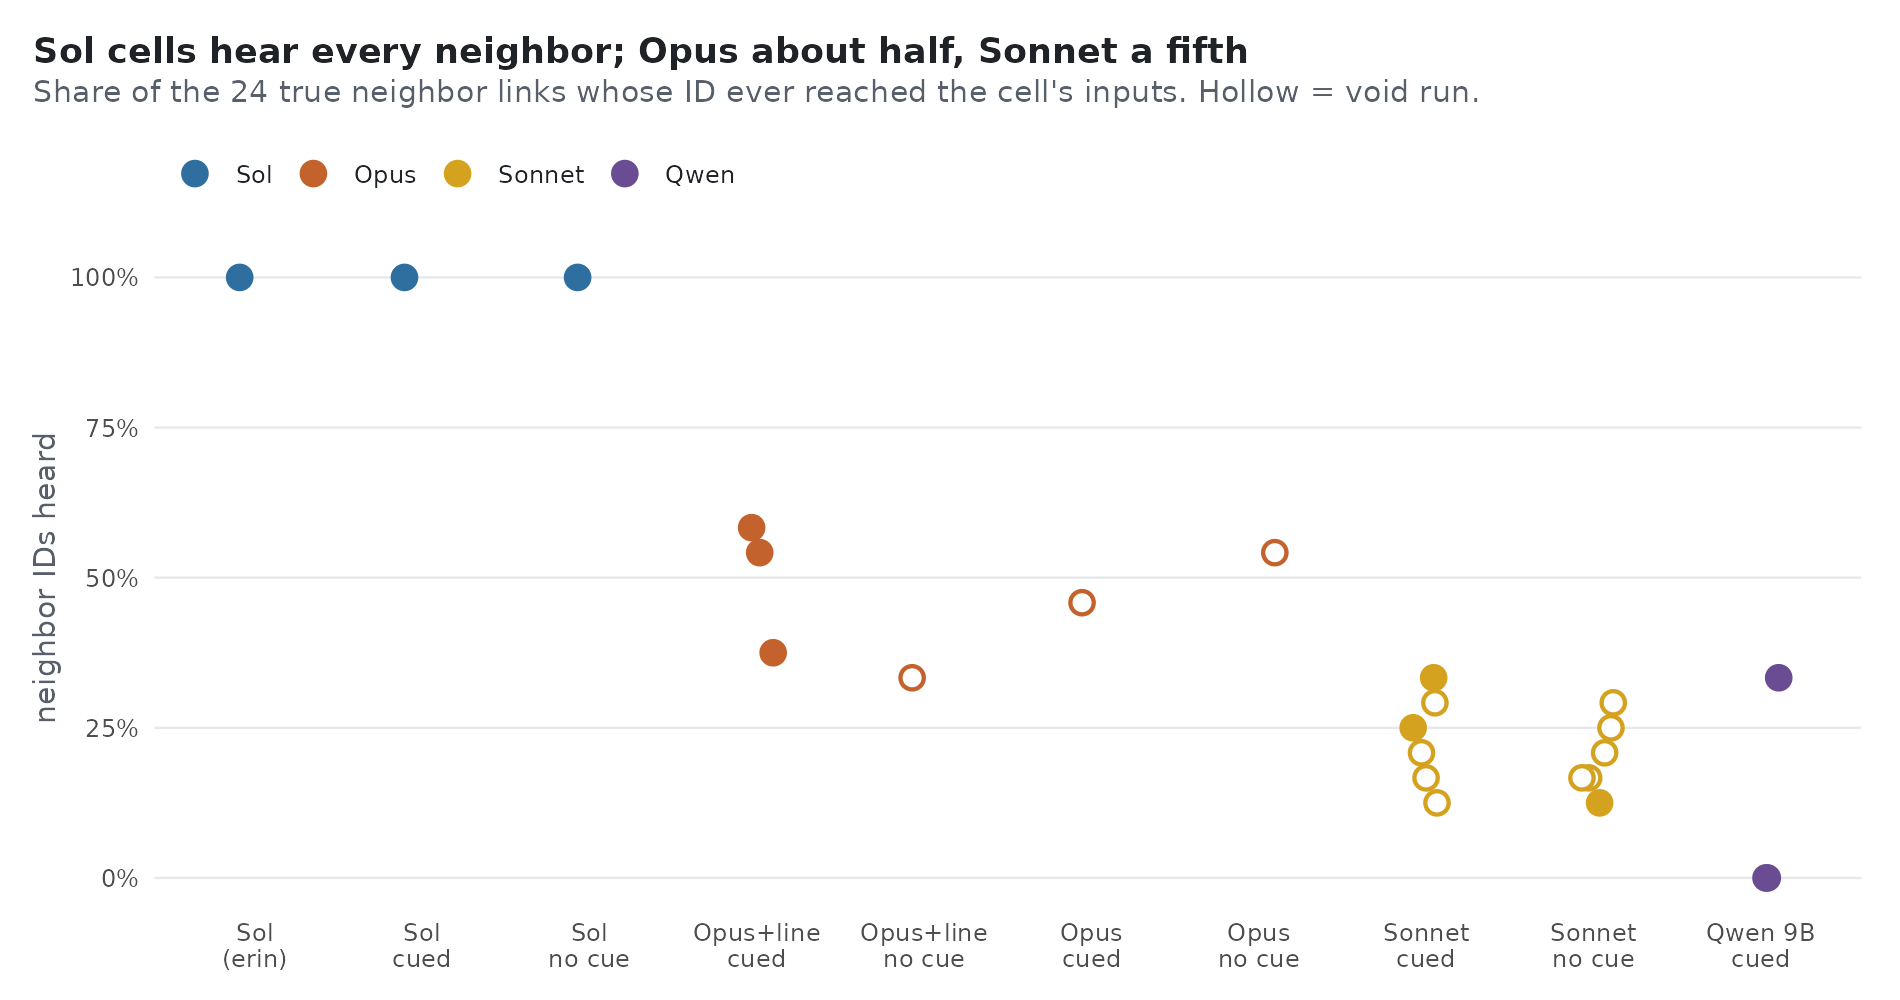
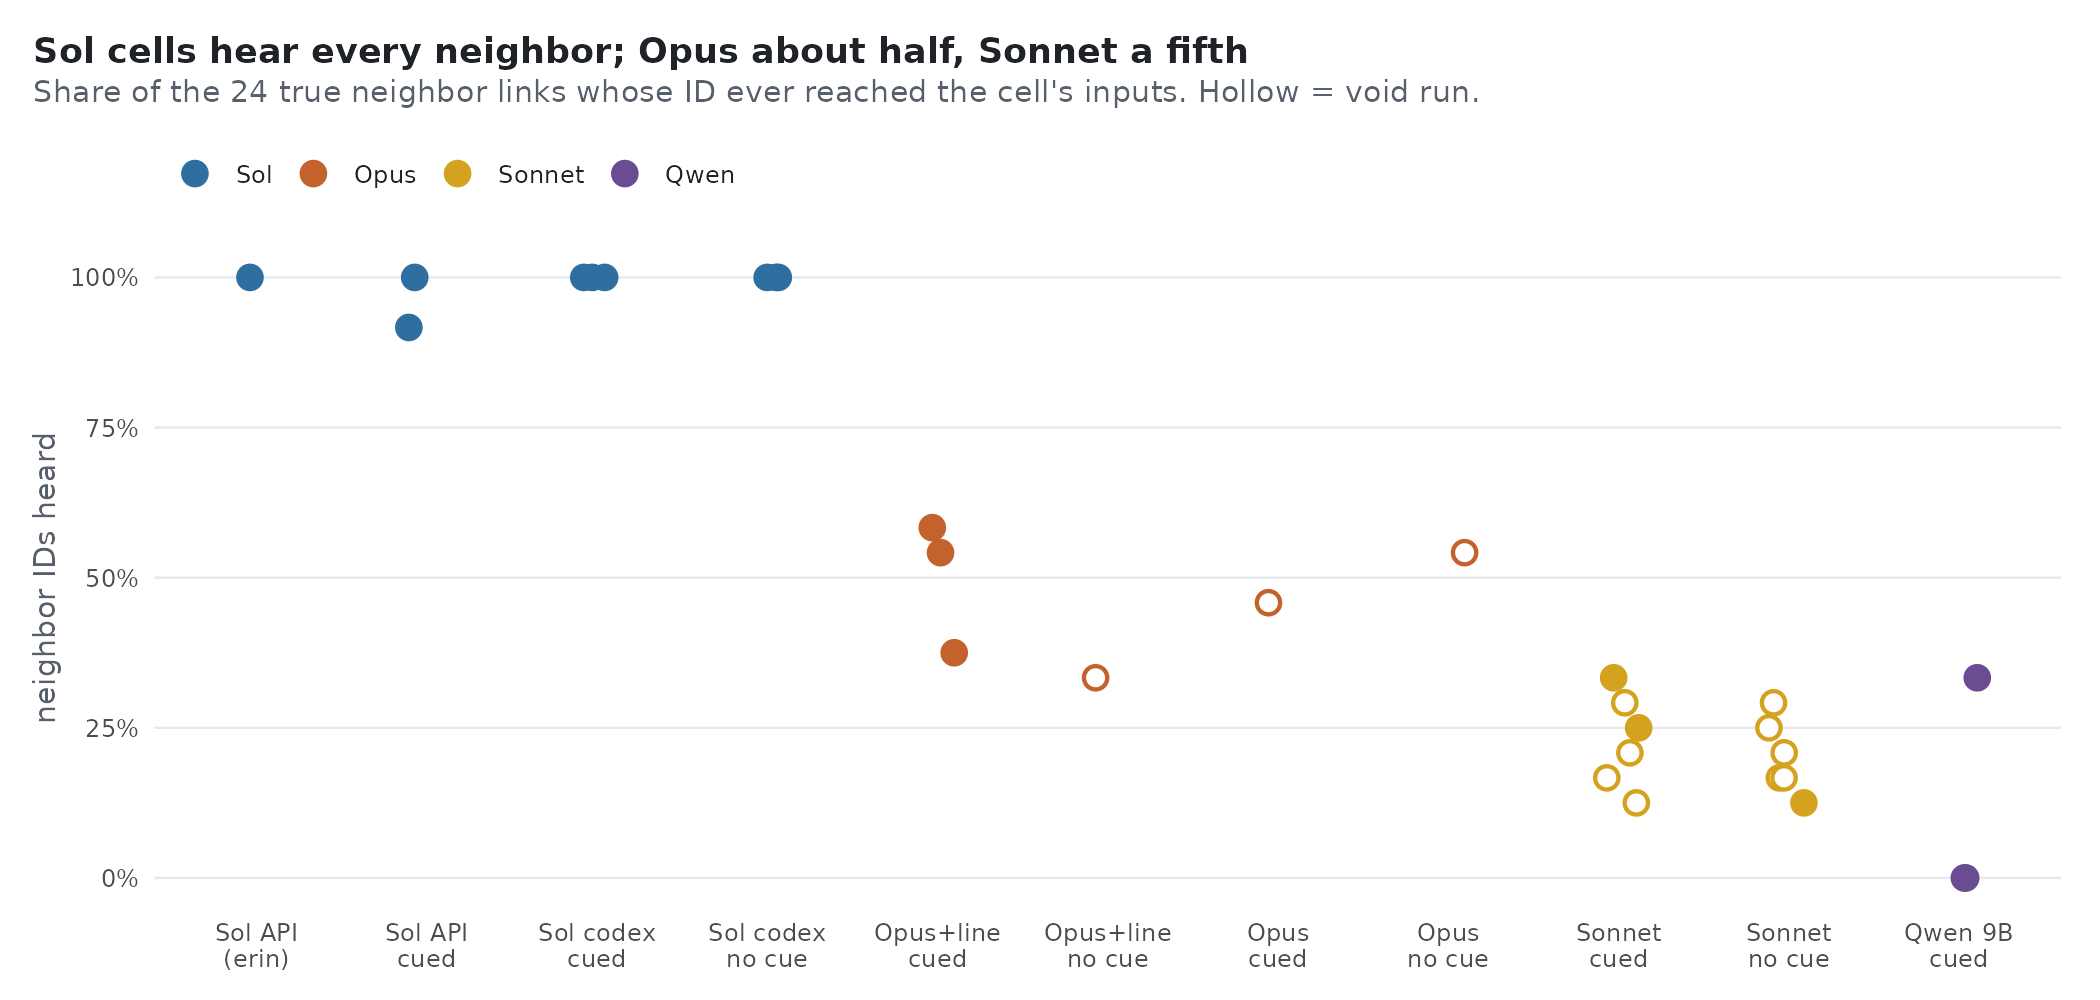
P0 Sol 3-seed verdicts: replication NOT REPRODUCED (text 9/9 in 1 of 3 codex cued seeds), cue MIXED, no-cue eval higher on every seed; codex-1003 text withdraws 'codex never writes text'; queue3 puts founders before the verbosity run

diff --git a/docs/P0_results.md b/docs/P0_results.md
@@ -1,4 +1,4 @@
-# P0 results (2026-11-09) — replication of erz0r/fourfold
+# P0 results (updated 2026-11-10, Sol 3 seeds complete) — replication of erz0r/fourfold
 
 Prereg: `prereg/P0.md` (frozen @89dfc67; deviations 1–10). Tables: `analysis/p0_readout.tsv`, `analysis/r3_words_acts.tsv`.
 Figures: `figures/p0_eval.png`, `figures/p0_refusals.png`, `figures/p0_neighbors.png`.
@@ -6,18 +6,22 @@ Figures: `figures/p0_eval.png`, `figures/p0_refusals.png`, `figures/p0_neighbors
 ## Verdicts (frozen rules)
 | question | status | basis |
 |---|---|---|
-| Replication (Sol cued) | **OPEN** — 1 of 3 seeds run | seed 1001: eval 0.288 vs floor 0.089 (+0.199; bar +0.20 missed by 0.001), ASCII text 0/9 |
-| Cue (Sol) | **OPEN** — n=1 per arm | no-cue 0.570 (+0.48, center agent 1.0) vs cued 0.288; text 0/9 in both |
+| Replication (Sol cued, codex route) | **NOT REPRODUCED** (3/3 valid) | text adopted 9/9 in 1 of 3 seeds (rule needs 2): seed 1003 first text t24, all nine by t29; seeds 1001/1002 0/9. Eval 0.288/0.308/0.298 vs bar 0.289 (floor 0.089 + 0.20) |
+| Cue (Sol, codex route) | **MIXED** by the adoption rule (cued 1/3, no-cue 0/3) | eval no-cue 0.570/0.594/0.881 (mean 0.68) vs cued mean 0.30: higher on every seed |
 | Qwen3.5-9B capability | **CANNOT** (3/3 valid) | eval 0.086–0.089 = floor 0.089; text 0/9 |
 | Sonnet 5.5 | cued n=2 valid: no emergence, at floor (0.10/0.12 vs 0.089); no-cue 0/6 valid ⇒ no cue verdict | refusals |
 | Opus 5.5 (+ neutral line, dev. 8) | cued 3/3 valid: eval 0.214/0.195/0.132 vs own floor 0.108/0.129/0.122; text 0/9 | |
 
 ## What stands out
-1. **Sol does best without the evaluation cue** (one seed per arm): 0.57 vs 0.29, close to erin's 0.597. Opposite
-   of "emergence is prompt-cued". Needs seeds 1002/1003 before it is more than a lead.
-2. **No ASCII text in our Sol runs.** Both used structured hex messages (IDs, counters); every cell heard every
-   neighbor's ID (24/24 links), as in erin's run. Erin's text protocol (t6/t14) did not reproduce on seed 1001.
-   Our Sol runs go through `codex exec` (~10.8k tokens of scaffolding per call), not the raw API (dev. 2).
+1. **Sol scores higher without the evaluation cue on all three seeds**: 0.57/0.59/0.88 vs 0.29/0.31/0.30.
+   Cued cells learn their own wiring (0.75–0.92) but never the grid (map score 0.00 in all 5 cued runs, both
+   routes). No-cue cells score 0.31–0.89 on the map and name 28–48 non-neighbor IDs in their final notes
+   (cued: 0–8), so they relay what they hear. Erin's cued run (0.597, map 0.30) looks like our no-cue runs.
+2. **English appeared in 3 of 5 cued Sol runs and 0 of 3 no-cue runs.** Codex seed 1003: "WHO? ID=38b1f9a3" at
+   t24, "ACK! ID=…" at t25, all nine cells by t29 (erin: t6 → t14). Bare API (T_text stage 2): 5/9 from t41 and
+   6/9 from t12. Codex seeds 1001/1002: structured hex only. Route difference 2/2 vs 1/3 is Fisher p = 0.4, so
+   "codex never writes text" is withdrawn (`docs/T_text_results.md`). Text did not raise eval (0.298 with it).
+   Every Sol cell heard every neighbor's ID (24/24 links) in all runs.
 3. **Claude hears fewer neighbors**: neighbor IDs heard Opus 9–14/24, Sonnet 3–8/24, Qwen 0–8/24.
 4. **Opus without the cue talks in English** ("ack both. p3=0", "good day too :)"; 5/9 agents from t9; eval 0.239)
    but that run is VOID: ~20% of turns refused (descriptive only, dev. 10).
@@ -26,6 +30,11 @@ Figures: `figures/p0_eval.png`, `figures/p0_refusals.png`, `figures/p0_neighbors
    ("payload" ~4.3k, "injection" ~950). One neutral context line (dev. 8) cut cued Opus to 1–3%; no-cue stays ~20%.
    Removing the eval cue raises refusals in every Claude arm (fig. `p0_refusals.png`).
 
+## Validity (prereg: VOID under 90% error-free agent-ticks)
+All six codex Sol runs are valid: 93.3–97.3% error-free. Their only errors are usage-limit ticks where every
+call failed and no state changed (1–3 per run); without those ticks, 99.3–100%.
+
 ## Not yet done
-Sol seeds 1002/1003 (both arms; ~4–6 Plus windows); framed-Sol check (does the neutral line move Sol?);
-scan run logs for the injected account email before anything is published.
+Zero-information floors for the two 1003 runs (queued; the prereg floor is seed 1001); a third bare-API seed (1003,
+needs ~$8 OpenRouter credit); framed-Sol check; redact the account email in
+`runs/p0-opus-framed-nocue-1001/ticks.jsonl` before anything is published.

diff --git a/docs/T_text_results.md b/docs/T_text_results.md
@@ -1,4 +1,10 @@
-# T_text results: why our Sol cells never write ASCII (complete, 2026-11-10)
+# T_text results: do our Sol cells write ASCII, and does the route matter? (updated 2026-11-10 13:45)
+
+**Bottom line (after full runs, stages 2–4 below):** the question's premise was wrong. Codex cells wrote English
+in 1 of 3 cued runs (seed 1003, all nine cells by t29). No route effect is shown: text in 2/2 bare-API vs 1/3
+codex cued runs (Fisher p = 0.4). Text looks like a founder event that happens in some runs and not others.
+
+## Stage 1: single-call replay (complete)
 
 Prereg: `prereg/T_text.md`. Data: `analysis/t_text/calls.jsonl`, `summary.tsv`. 360/360 calls valid
 (240 OpenRouter, all OpenAI-served, $3.82; 120 codex on Plus after one free reset).
@@ -38,5 +44,32 @@ text in both 128-bit Sol runs she describes, versus 0 of our 5. That fits "lucky
 composition) that compounds over 50 ticks. A single-call replay cannot see that. The test that decides it is full
 runs on erin's route (bare API), compared with our codex runs.
 
-**Next:** plant a scripted founder in full Sol runs (`prereg/P1_founder.md`) to test whether a founder
-alone makes our cells adopt and keep English.
+## Stages 2–4: full runs (cued prompt, 128-bit hex, same wiring per seed)
+| run | route | reasoning tokens/call (median, full run) | log words/call (median, t1–40) | cells writing English | first text | eval |
+|---|---|---|---|---|---|---|
+| erin sol-50 | OpenAI API | 512 | 54.5 | 9/9 | t6 | 0.597 |
+| API 1001 | OpenRouter → OpenAI, bare | 458 | 49 | 5/9 | t41 | 0.296 |
+| API 1002 | same | 421 | 50 | 6/9 | t12 | 0.280 |
+| API 1002, effort medium (stage 4, 30 ticks) | same | 67 | 44 (t1–30) | 0/9 | none | not run |
+| codex 1001 | codex exec | 223 | 37 | 0/9 | none | 0.288 |
+| codex 1002 | codex exec | 242 | 37 | 0/9 | none | 0.308 |
+| codex 1003 | codex exec | 320 | 38 | 9/9 | t24 | 0.298 |
+
+Codex no-cue runs (1001–1003): 0/9 text in all three.
+
+- **Codex 1003 (landed 11-10 11:41):** cell 0 sent "WHO? ID=38b1f9a3" at t24, a neighbor answered "ACK! ID=6774d88e"
+  at t25, and all nine cells were composing English by t29 ("ECHO Q0 …", "INPUTS? …", "…:PING").
+- **Withdrawn:** "codex never writes text" (it held for 5 runs and failed on the 6th), and with it the audit's
+  leading suspect that codex's lower reasoning budget suppresses text. Codex reasons about half as much per call
+  as the API (a real, measured difference), and wrote text anyway.
+- **Stage 4 stays ambiguous:** effort medium on the API gave no text in 30 ticks, but at 67 reasoning tokens it
+  sat far below codex, and bare 1001 needed 41 ticks at full effort.
+- **Stage 3 (codex, verbosity medium):** not run yet and no longer needed for the text question. Moved to the end
+  of the Codex queue; it would only measure log length.
+- **Open:** whether text is less likely per run on codex. 2/2 vs 1/3 cannot tell. A third bare-API seed (1003)
+  gives the pair for the run where codex did write text.
+- Stage 2 deviation and the stage 4 calibration are logged in `prereg/T_text.md`. OpenRouter is pinned to the
+  OpenAI provider; erin called api.openai.com directly.
+
+**Next:** scripted-founder runs (`prereg/P1_founder.md`). Note for reading them: on seed 1003 the no-founder
+control itself reaches 9/9 from t24, so a founder effect there can only show as earlier adoption.

diff --git a/prereg/P0.md b/prereg/P0.md
@@ -127,3 +127,10 @@ cost cap). VOID runs are reported, not replaced silently; a replacement uses wor
     uses it. Reason: it is the only Claude run with text emergence (5/9 by t21, first t9); readout = adopted/t_all at
     t50. Disclosure: the decision to resume was made after seeing its t21 emergence count. Sol (codex) cued/no-cue
     seed 1001 resume from t17 under deviation 2.
+11. 2026-11-10 13:45 EST: Sol (codex) seeds 1002 and 1003 complete, 6/6 runs valid. Verdicts by the frozen rules:
+    replication NOT REPRODUCED (adopted 9/9 in 1 of 3 cued seeds: 1003, t24 → t29); cue MIXED (cued 1/3, no-cue 0/3;
+    eval no-cue 0.570/0.594/0.881 vs cued 0.288/0.308/0.298). The premise rule ("NOT REPRODUCED ⇒ stop extensions,
+    report that first") fires. Disclosure: the P1_founder runs were approved by the user and queued on 11-10 ~03:20,
+    when seeds 1001/1002 had 0/9 adoption and the verdict was already fixed whatever 1003 did; founder 1001 was at
+    t34 when 1003 landed. `docs/P0_results.md` is the report; whether the queued founder runs continue is the user's call.
+    F0 for the 1003 runs is queued; the verdict uses the prereg floor (seed 1001, 0.089).

diff --git a/prereg/T_text.md b/prereg/T_text.md
@@ -95,3 +95,11 @@ cells (`founder_readout`, all 9 cells).
 Reading (descriptive, n = 1): no text by t30 with reasoning at codex level → consistent with the reasoning budget
 being the dial (not proof: one seed, and bare 1001 took 41 ticks). Text by t30 → less reasoning alone does not
 suppress text; suspicion moves to the scaffold or the serving path. Cost: within the $5.50 cap.
+
+## Result that changes the reading (2026-11-10 13:45, logged before stage 3 runs)
+`p0-solcx-cued-1003` (codex, as run) wrote text: first t24, 9/9 cells by t29, median 320 reasoning tokens per call.
+So the observation this file starts from holds for 5 codex runs and fails on the 6th. Cued runs with text: bare API
+2/2, codex 1/3 (Fisher p = 0.4). Consequences: (1) stage 3 can no longer explain a "never"; it is moved to the end of the
+Codex queue (`scripts/codex_queue3.sh`) and would only measure log length; (2) stage 4's "consistent with the reasoning
+budget being the dial" loses its main support, since codex-level reasoning produced text; (3) open question is the
+per-run rate by route, which needs more paired seeds (API 1003 next, when funded).
